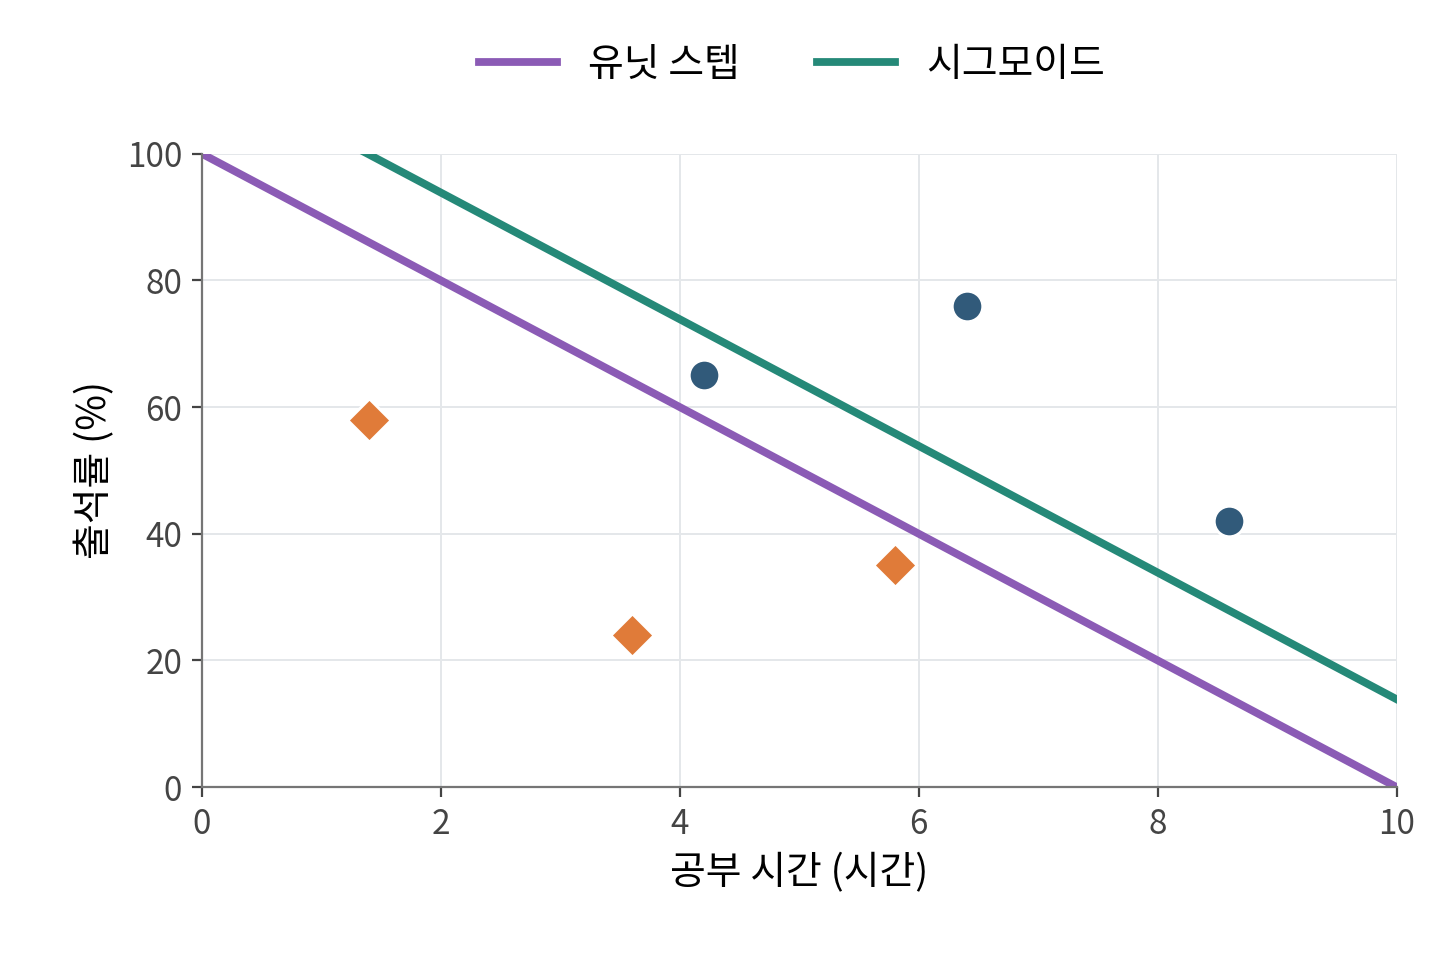
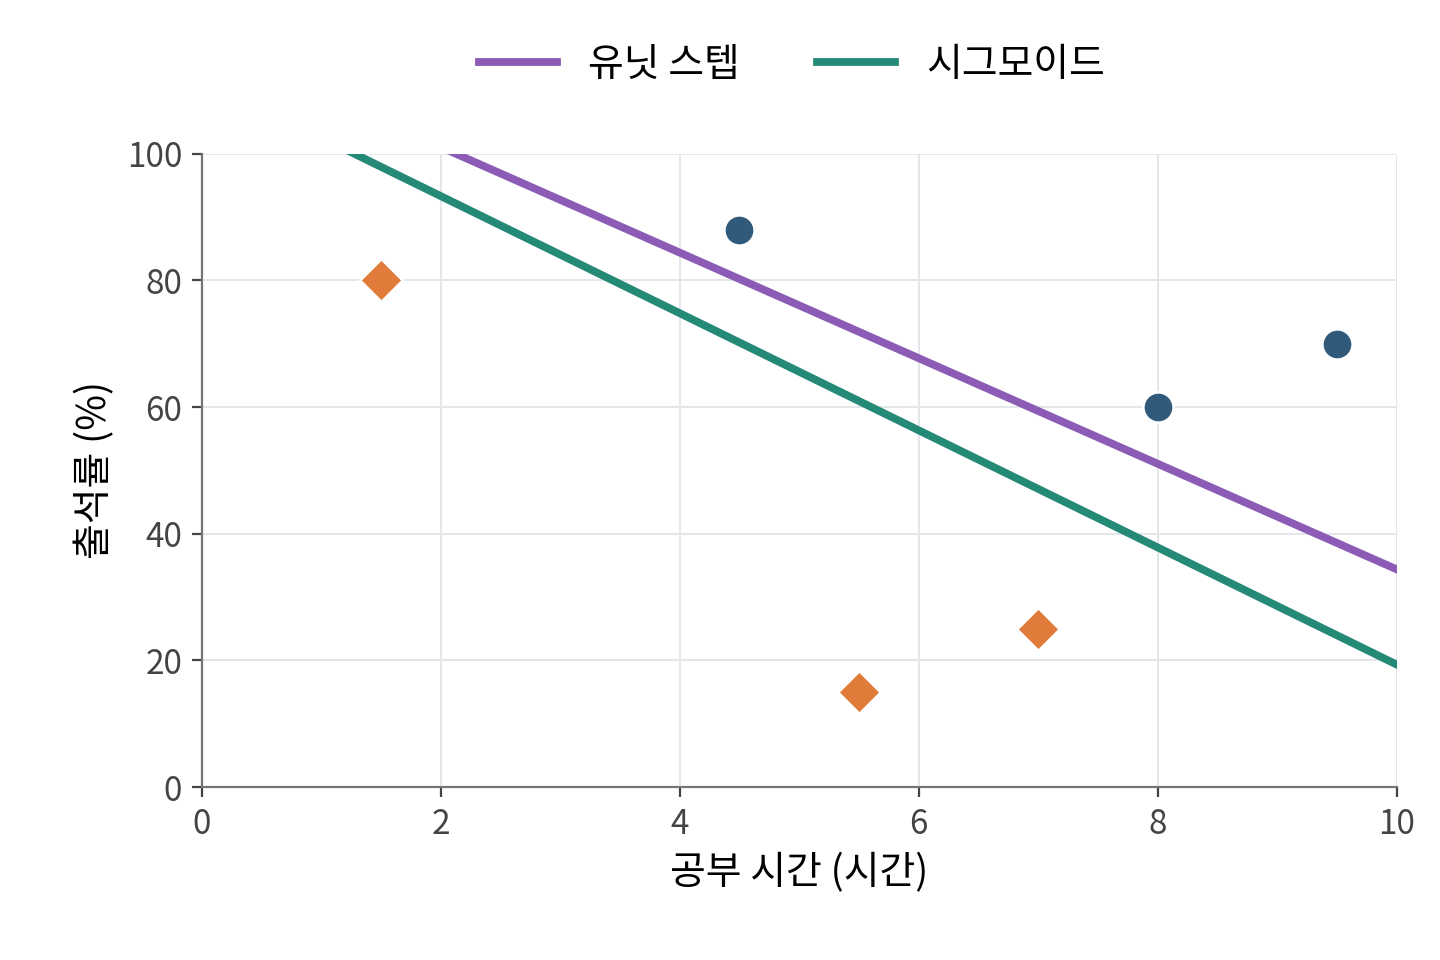
docs: compare two trained classifiers with zero errors

diff --git a/scripts/figures/ch05_linear_models.py b/scripts/figures/ch05_linear_models.py
@@ -1,0 +1,85 @@
+"""같은 6점을 분류하는 두 학습 모델. 설명을 위한 합성 데이터다.
+
+두 입력을 [-1, 1]로 맞춰 단위 차이를 제거한다.
+퍼셉트론: 가중치 0부터 시작, 불합격→합격 순서로 오분류만 갱신.
+시그모이드: 평균 BCE + 0.02 / 2 * ||w||², 절편은 규제하지 않는다.
+분리 가능한 데이터에서 BCE만으로는 유한한 최솟값이 없으므로 L2 규제를 쓴다.
+필요 패키지: numpy, scipy.
+"""
+import numpy as np
+from scipy.optimize import minimize
+from scipy.special import expit
+
+
+PASS = [(9.5, 70), (8, 60), (4.5, 88)]
+FAIL = [(1.5, 80), (5.5, 15), (7, 25)]
+DATA = np.asarray(FAIL + PASS, dtype=float)
+LABELS = np.array([0, 0, 0, 1, 1, 1])
+FEATURES = np.column_stack((DATA / [5, 50] - 1, np.ones(len(DATA))))
+L2 = 0.02
+
+
+def fit_perceptron():
+    weights = np.zeros(3)
+    for _ in range(1000):
+        for features, target in zip(FEATURES, LABELS):
+            prediction = int(features @ weights >= 0)
+            if prediction != target:
+                weights += (target - prediction) * features
+        if np.all((FEATURES @ weights >= 0) == LABELS):
+            return weights
+    raise RuntimeError("퍼셉트론이 모든 예시를 분류하지 못했습니다.")
+
+
+def fit_sigmoid():
+    def objective(weights):
+        scores = FEATURES @ weights
+        loss = np.mean(np.logaddexp(0, scores) - LABELS * scores)
+        loss += L2 / 2 * (weights[:2] @ weights[:2])
+        gradient = FEATURES.T @ (expit(scores) - LABELS) / len(DATA)
+        gradient[:2] += L2 * weights[:2]
+        return loss, gradient
+
+    result = minimize(objective, np.zeros(3), jac=True, method="BFGS",
+                      options={"gtol": 1e-8})
+    if not result.success:
+        raise RuntimeError(result.message)
+    return result.x
+
+
+def boundary_y(weights, study):
+    """점수 0인 경계를 원래 단위(공부 시간, 출석률)로 환산한다."""
+    return 50 * (1 - (weights[0] * (np.asarray(study) / 5 - 1)
+                      + weights[2]) / weights[1])
+
+
+def boundary_segment(weights):
+    """0~10시간, 출석률 0~100% 영역에 보이는 선분의 끝점."""
+    points = [(x, float(boundary_y(weights, x))) for x in (0, 10)
+              if 0 <= boundary_y(weights, x) <= 100]
+    for attendance in (0, 100):
+        study = 5 * (1 - (weights[1] * (attendance / 50 - 1)
+                          + weights[2]) / weights[0])
+        if 0 <= study <= 10:
+            points.append((float(study), attendance))
+    return sorted(points)[0], sorted(points)[-1]
+
+
+def minimum_margin(weights):
+    signed_distance = (2 * LABELS - 1) * (FEATURES @ weights)
+    return float(np.min(signed_distance) / np.linalg.norm(weights[:2]))
+
+
+STEP_WEIGHTS = fit_perceptron()
+SIGMOID_WEIGHTS = fit_sigmoid()
+for weights in (STEP_WEIGHTS, SIGMOID_WEIGHTS):
+    assert np.all((FEATURES @ weights >= 0) == LABELS), "두 모델 모두 6/6 분류해야 함"
+assert minimum_margin(SIGMOID_WEIGHTS) > minimum_margin(STEP_WEIGHTS)
+differences = boundary_y(STEP_WEIGHTS, [0, 10]) - boundary_y(SIGMOID_WEIGHTS, [0, 10])
+assert np.all(differences > 0), "그림의 두 경계는 겹치지 않아야 함"
+
+
+if __name__ == "__main__":
+    for name, weights in (("유닛 스텝", STEP_WEIGHTS), ("시그모이드", SIGMOID_WEIGHTS)):
+        print(f"{name}: 6/6 분류, 가중치 {weights}, "
+              f"정규화한 입력 공간의 최소 거리 {minimum_margin(weights):.4f}")

diff --git a/scripts/figures/ch05_linear_classification.py b/scripts/figures/ch05_linear_classification.py
@@ -1,13 +1,12 @@
 """학생 6명의 데이터와 유닛 스텝·시그모이드 분류 경계를 그린다.
 
 실행: python3 scripts/figures/ch05_linear_classification.py
-동일한 점수 z = x1 + x2 / 10 - 10에서 unit step의 기준은 z=0,
-비교 그림은 sigmoid 임계값을 p=0.8로 높여 경계가 이동하는 예시다.
+같은 데이터를 퍼셉트론과 시그모이드+BCE+L2 규제로 각각 학습한다.
+유닛 스텝은 z=0, 시그모이드는 p=0.5로 두 모델 모두 6/6 분류한다.
 출력: perceptron-data.png, perceptron-boundary.png,
       unit-step-sigmoid-boundary.png (easy-deep-learning-ch04 폴더)
 """
 from pathlib import Path
-import math
 
 import matplotlib
 
@@ -18,6 +17,7 @@ from matplotlib import font_manager
 from matplotlib.lines import Line2D
 
 from ch04_classification_drawio import PASS, FAIL, perceptron, OUT as DIAGRAMS
+from ch05_linear_models import STEP_WEIGHTS, SIGMOID_WEIGHTS, boundary_y
 
 
 OUT = Path(__file__).resolve().parents[2] / "site/public/images/notes/easy-deep-learning-ch04"
@@ -56,10 +56,9 @@ def draw_data(ax):
     ax.tick_params(colors="#444444", labelsize=12)
 
 
-def draw_boundary(ax, color, score_threshold=0):
+def draw_boundary(ax, color, weights):
     x = np.linspace(0, 10, 101)
-    ax.plot(x, 100 - 10 * x + 10 * score_threshold,
-            color=color, linewidth=2.8, zorder=2)
+    ax.plot(x, boundary_y(weights, x), color=color, linewidth=2.8, zorder=2)
 
 
 def save_single(name, boundary=False):
@@ -67,7 +66,7 @@ def save_single(name, boundary=False):
     fig.subplots_adjust(left=0.14, right=0.97, bottom=0.18, top=0.84)
     draw_data(ax)
     if boundary:
-        draw_boundary(ax, STEP_COLOR)
+        draw_boundary(ax, STEP_COLOR, STEP_WEIGHTS)
         fig.legend([Line2D([0], [0], color=STEP_COLOR, linewidth=2.8)],
                    ["유닛 스텝"], loc="upper center", frameon=False,
                    bbox_to_anchor=(0.55, 0.99))
@@ -79,10 +78,8 @@ def save_comparison():
     fig, ax = plt.subplots(figsize=(7.2, 4.8), dpi=200)
     fig.subplots_adjust(left=0.14, right=0.97, bottom=0.18, top=0.84)
     draw_data(ax)
-    draw_boundary(ax, STEP_COLOR)
-    probability_threshold = 0.8
-    score_threshold = math.log(probability_threshold / (1 - probability_threshold))
-    draw_boundary(ax, SIGMOID_COLOR, score_threshold)
+    draw_boundary(ax, STEP_COLOR, STEP_WEIGHTS)
+    draw_boundary(ax, SIGMOID_COLOR, SIGMOID_WEIGHTS)
     fig.legend([Line2D([0], [0], color=color, linewidth=2.8)
                 for color in (STEP_COLOR, SIGMOID_COLOR)],
                ["유닛 스텝", "시그모이드"], ncol=2, loc="upper center",

diff --git a/scripts/figures/ch04_classification_drawio.py b/scripts/figures/ch04_classification_drawio.py
@@ -16,6 +16,7 @@ PNG 위치: site/public/images/notes/easy-deep-learning-ch04/
 import math
 from pathlib import Path
 from xml.sax.saxutils import quoteattr
+from ch05_linear_models import PASS, FAIL, STEP_WEIGHTS, boundary_segment
 
 OUT = Path(__file__).resolve().parents[2] / "site/src/assets/diagrams"
 
@@ -149,19 +150,14 @@ def frange(a, b, n):
     return [a + (b - a) * i / (n - 1) for i in range(n)]
 
 
-# 합격: (공부 시간, 출석률 %) / 불합격. 경계 출석률 = 100 - 10 × 공부 시간 으로 완벽히 갈린다.
-PASS = [(4.2, 65), (6.4, 76), (8.6, 42)]
-FAIL = [(5.8, 35), (3.6, 24), (1.4, 58)]
-assert all(a > 100 - 10 * h for h, a in PASS) and all(a < 100 - 10 * h for h, a in FAIL)
-
-
 def perceptron(boundary):
     name = "perceptron-boundary" if boundary else "perceptron-data"
     d = Diagram(name, "학습이 끝난 분류 경계" if boundary else "공부 시간과 출석률 데이터")
     p = Plot(d, (0, 10), (0, 100))
     p.grid(range(0, 11, 2), range(0, 101, 20), lambda t: str(t), lambda t: str(t))
     if boundary:
-        d.line([(p.px(0), p.py(100)), (p.px(10), p.py(0))], "#8b5bb5", 4)
+        points = [(p.px(h), p.py(a)) for h, a in boundary_segment(STEP_WEIGHTS)]
+        d.line(points, "#8b5bb5", 4)
     for h, a in FAIL:
         d.diamond(p.px(h), p.py(a), ORANGE)
     for h, a in PASS:

diff --git a/site/src/content/notes/Machine Learning｜Deep Learning/deeplearning_05.md b/site/src/content/notes/Machine Learning｜Deep Learning/deeplearning_05.md
@@ -106,9 +106,9 @@ $$
 
 이처럼 입력의 선형식으로 분류 경계를 정하는 방식을 **선형분류**라고 합니다. 이 예제에서는 입력이 두 개이므로 분류 경계가 직선입니다.
 
-아래는 같은 점수식에서 유닛 스텝은 $z=0$, 시그모이드는 $p=0.8$을 기준으로 분류한 예시입니다. 시그모이드의 임계값을 0.5에서 0.8로 높이면 경계가 이동해 합격으로 분류하는 영역이 줄어듭니다.
+아래는 같은 학생 6명으로 각각 학습한 결과입니다. 두 모델 모두 올바르게 분류하지만, 이 예시에서는 시그모이드의 경계가 두 부류 사이에 더 여유 있게 놓입니다. 시그모이드 모델은 BCE 손실과 가중치 크기를 제한하는 L2 규제로 학습하고, 확률 0.5를 기준으로 분류했습니다.
 
-<img src="../../../../public/images/notes/easy-deep-learning-ch04/unit-step-sigmoid-boundary.png" alt="학생 6명의 데이터 위에 겹친 두 분류 경계. 보라색 유닛 스텝 경계는 z=0, 초록색 시그모이드 경계는 p=0.8에 해당하며, 임계값을 높인 초록색 경계가 오른쪽 위로 이동해 합격 영역을 좁힌다" loading="lazy" width="560" height="373" />
+<img src="../../../../public/images/notes/easy-deep-learning-ch04/unit-step-sigmoid-boundary.png" alt="같은 합격 학생 3명과 불합격 학생 3명을 모두 올바르게 분류하는 두 학습 결과. 보라색 퍼셉트론 경계는 왼쪽 위 합격 학생 가까이에 놓이고, 초록색 시그모이드 경계는 두 부류 사이에서 가장 가까운 학생과도 더 큰 여유를 둔다. 시그모이드 분류 임계값은 0.5이다" loading="lazy" width="560" height="373" />
 
 
 ### 직선으로 나눌 수 없는 데이터
